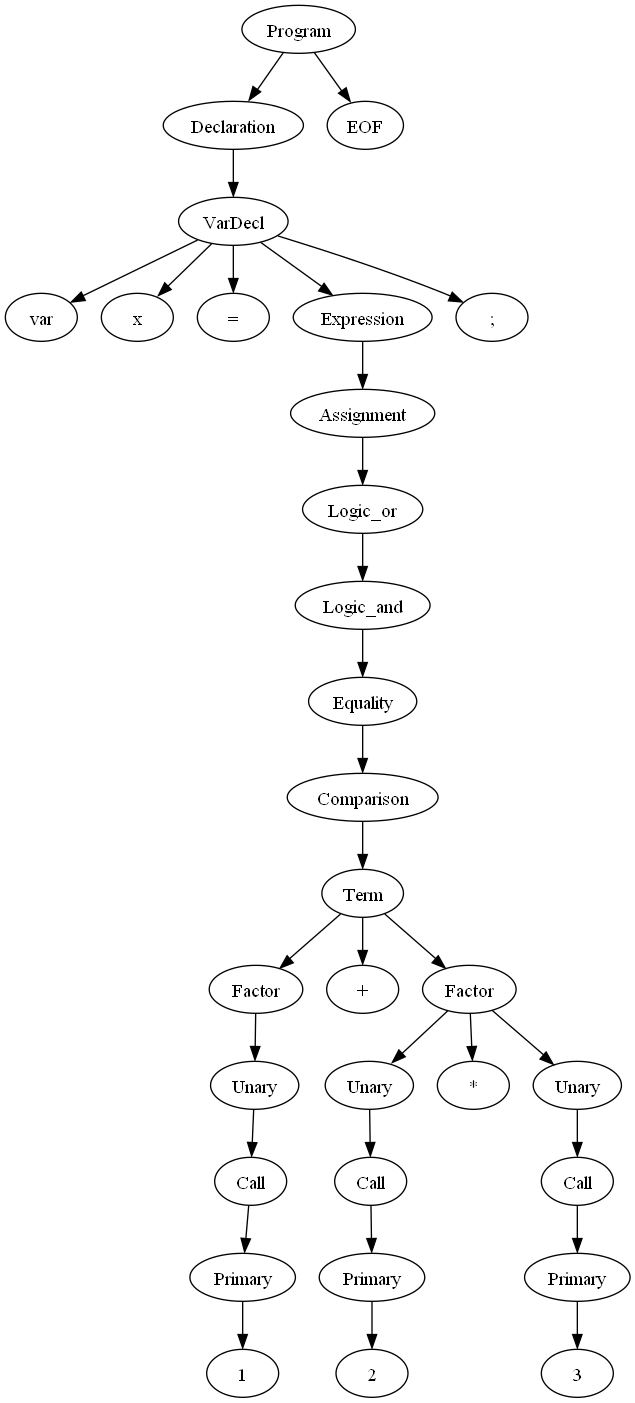
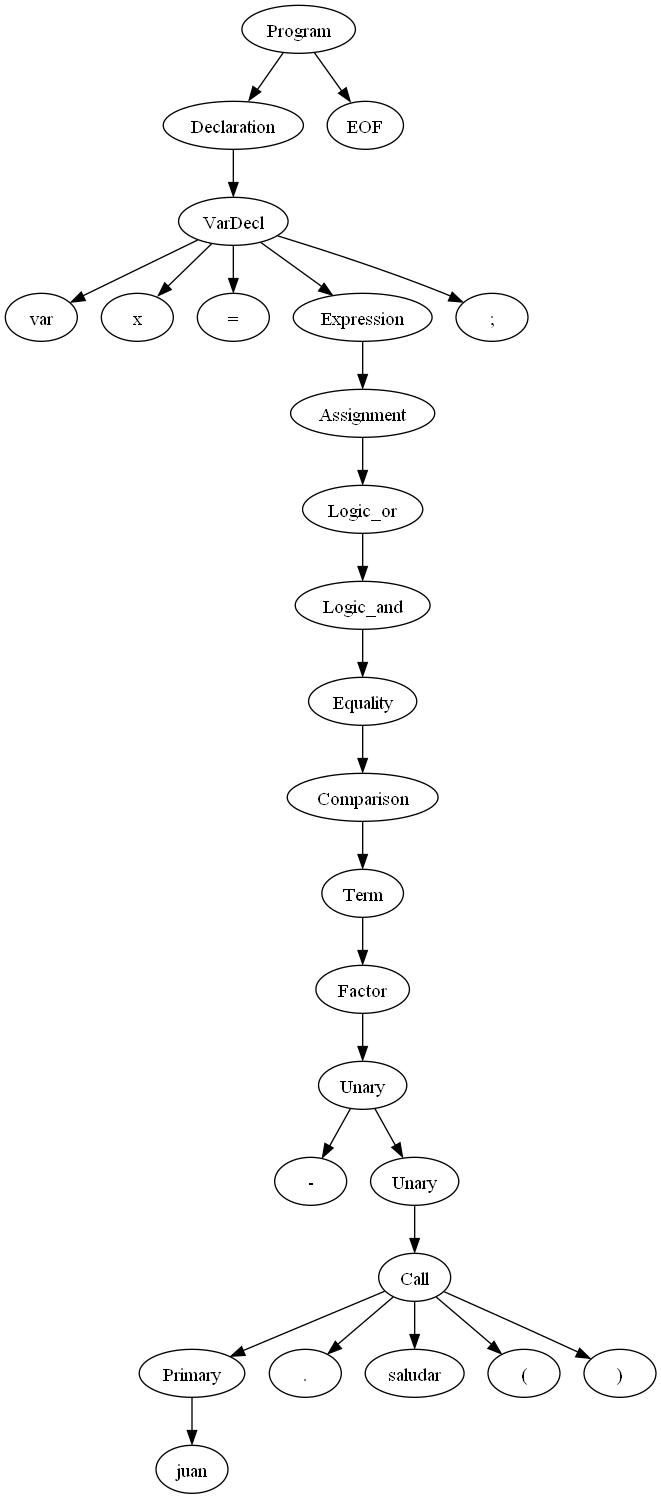
Unary update

diff --git a/src/SymbolTable/table_generator.py b/src/SymbolTable/table_generator.py
@@ -330,3 +330,26 @@ class TableGenerator(compiscriptVisitor):
             self.printf("INFO -> This is a wrapper node")
             # Visit the rest of the tree
             self.visitChildren(ctx)
+
+
+    def visitUnary(self, ctx:compiscriptParser.UnaryContext):
+        self.printf("VISIT -> Unary node")
+        
+        # Check if the unary is not a wrapper node
+        if ctx.getChildCount() > 1:
+            self.printf("INFO -> This is a valid unary")
+            # Check if we are in a valid assignment context
+            if self.current_variable is not None:
+                # Check if its negation or negative
+                self.printf("INFO -> Setting data type for unary")
+                # If the unary is a negative operator set the data type to number
+                if ctx.getChild(0).getText() == "-":
+                    self.current_variable.set_values(NumberType())
+                # If the unary is a negation operator set the data type to boolean
+                elif ctx.getChild(0).getText() == "!":
+                    self.current_variable.set_values(BooleanType())
+                
+        else:
+            self.printf("INFO -> This is a wrapper node")
+            # Visit the rest of the tree
+            self.visitChildren(ctx)
